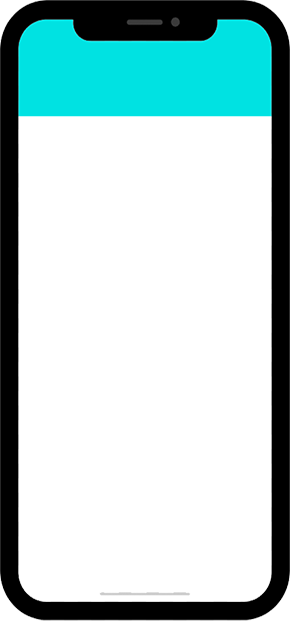
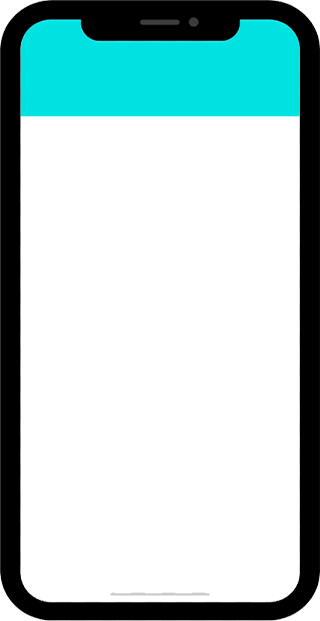
Resize background-image; finish styling on header and footer modules

diff --git a/src/Layout/layout.css b/src/Layout/layout.css
@@ -2,23 +2,26 @@
 /* APP */
 
 .layout {
+    position: relative;
     height: 100vh;
     width: 100vw;
     max-height: 620.64px;
-    max-width: 290.04px;
+    max-width: 320px;
     margin: 0 auto;
-    padding: 16px;
+    padding: 18px;
 }
+
+/* Header */
+
 .app-header {
     height: 100px;
-    padding: 3px 5px 0;
+    padding: 3px 10px 0 15px;
     padding-left: 10px;
-    border: 2px solid yellow;
+    width: 100%;
 }
 .indicators {
     display: flex;
     margin-bottom: 10px;
-    border: thin solid maroon;
 }
 .time, .primary-indicators > * {
     display: inline-block;
@@ -35,6 +38,51 @@
     padding: 0 1px;
 }
 .nav-control {
-    font-size: 1.7em;
+    width: 50px;
     color: #fff;
+}
+.nav-control > span {
+    display: inline-block;
+    font-size: 2.7em;
+}
+
+/* Footer */
+
+.app-footer {
+    position: absolute;
+    bottom: 10px;
+    left: 2px;
+    right: 2px;
+    display: flex;
+    padding-top: 60px;
+    border-left: 18px solid #000;
+    border-right: 18px solid #000;
+    border-bottom: 10px solid #000;
+    border-bottom-left-radius: 50px;
+    border-bottom-right-radius: 50px;
+    background-color: #E4E4E4;
+}
+.app-footer:before {
+    content: "";
+    position: absolute;
+    left:  30%;
+    right: 30%;
+    bottom: 5px;
+    border: 2px solid rgba(169,169,169, .7);
+}
+.preferences, .add-entry, .history {
+    flex: 0 0 33.33%;
+    position: relative;
+    top: -10px;
+}
+.preferences > img, .add-entry > img, .history > img {
+    width: 30px;
+    height: 30px;
+}
+.add-entry {
+    top: -50px;
+}
+.add-entry > img {
+    width: 50px;
+    height: 50px;
 }

diff --git a/src/components/Footer/footer.js b/src/components/Footer/footer.js
@@ -1,12 +1,28 @@
-import React from 'react';
+import React, {Component} from 'react';
+import FontAwesome from 'react-fontawesome';
 
-const Footer = () => { 
-    
-	return (
-		<div>
-		</div>
-	)
-}
+import clock from '../../images/icons/clock.svg';
+import gear from '../../images/icons/gear.svg';
+import plusCircle from '../../images/icons/plus-circle.png';
+
+import './footer.module.css';
+
+const Footer = () => (
+
+    <footer className="app-footer">
+
+        <button className="preferences">
+            <img src={gear} alt={gear}/>
+        </button>
+        <button className="add-entry">
+            <img src={plusCircle} alt={plusCircle}/>
+        </button>
+        <button className="history">
+            <img src={clock} alt={clock}/>
+        </button>
+        
+    </footer>
+)
 
 export default Footer;
 

diff --git a/src/components/Header/header.js b/src/components/Header/header.js
@@ -3,8 +3,6 @@ import FontAwesome from 'react-fontawesome';
 
 import './header.module.css';
 
-import signal from '../../images/icons/wifi.svg';
-
 class Header extends Component {
 
     render () {
@@ -34,8 +32,6 @@ class Header extends Component {
                     <FontAwesome name="bars"/>
                 </button>
 
-                <h1>Weight Over</h1>
-                
             </header>
         )
     }

diff --git a/public/index.html b/public/index.html
@@ -25,6 +25,6 @@
     </head>
     <body>
         <noscript>You need to enable JavaScript to run this app.</noscript>
-        <div id="root"></div>
+        <div id="root" class="root"></div>
     </body>
 </html>

diff --git a/public/index.responsive.css b/public/index.responsive.css
@@ -1,7 +1,6 @@
 @media (min-width: 480px) {
     .layout {
         background: url('images/iphone.png') no-repeat center;
-        border: 2px solid orange;
     }
 }
 
